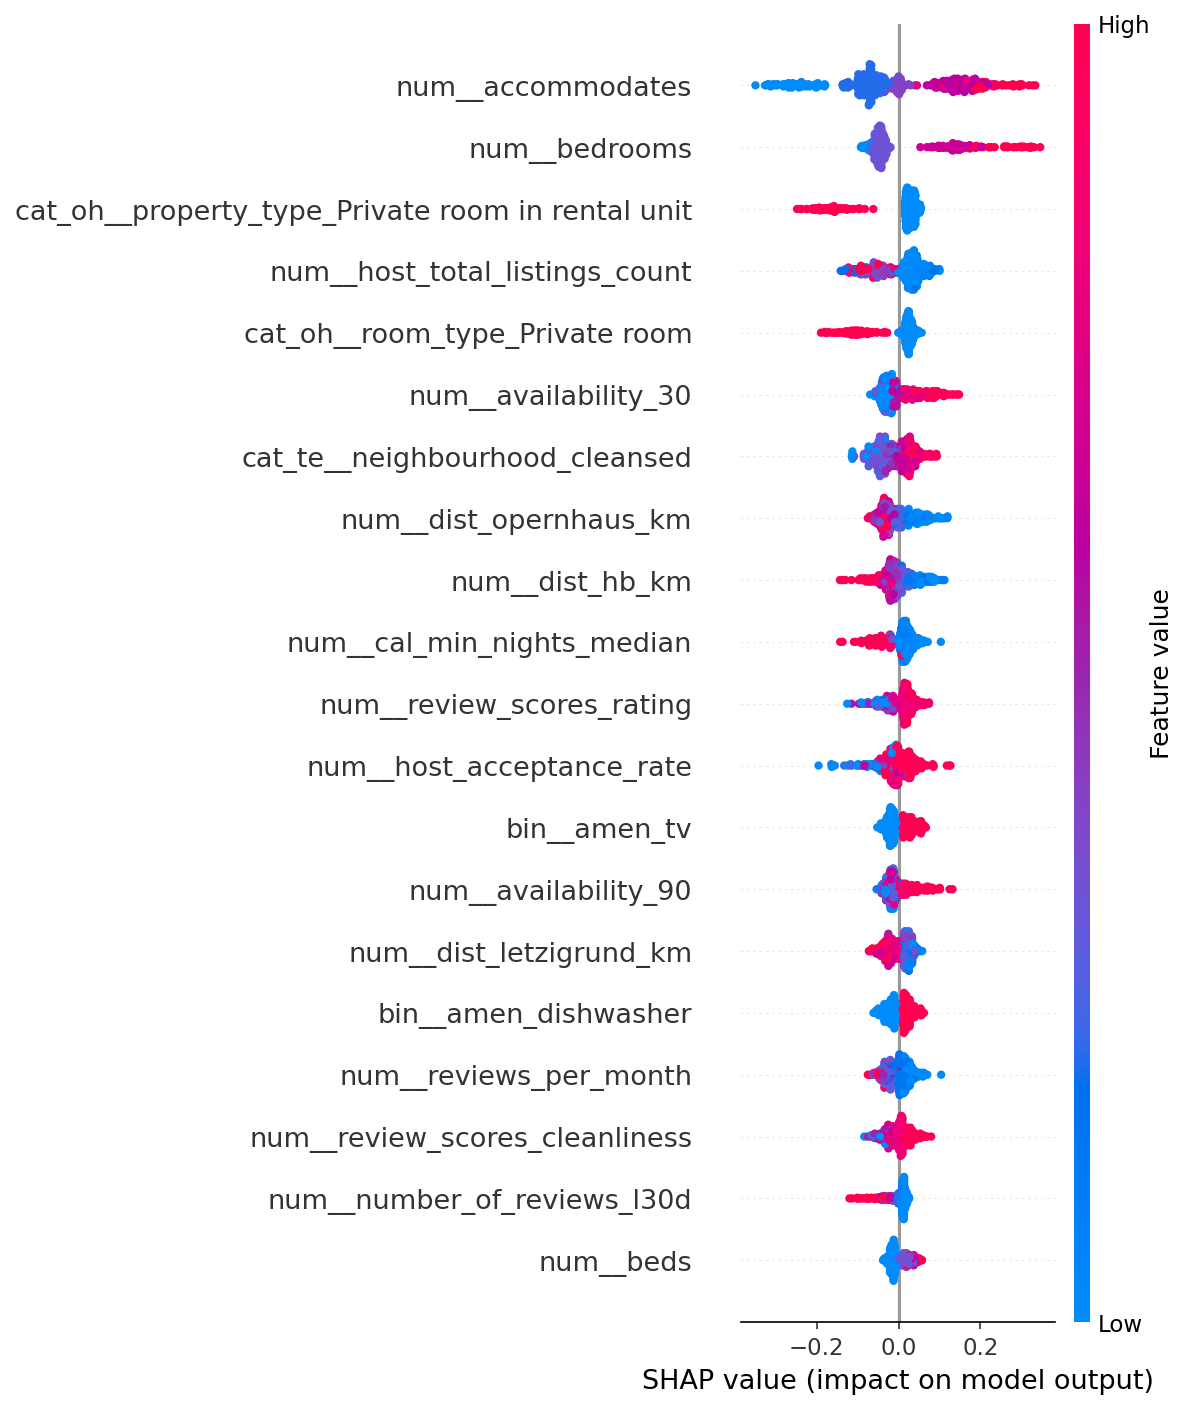
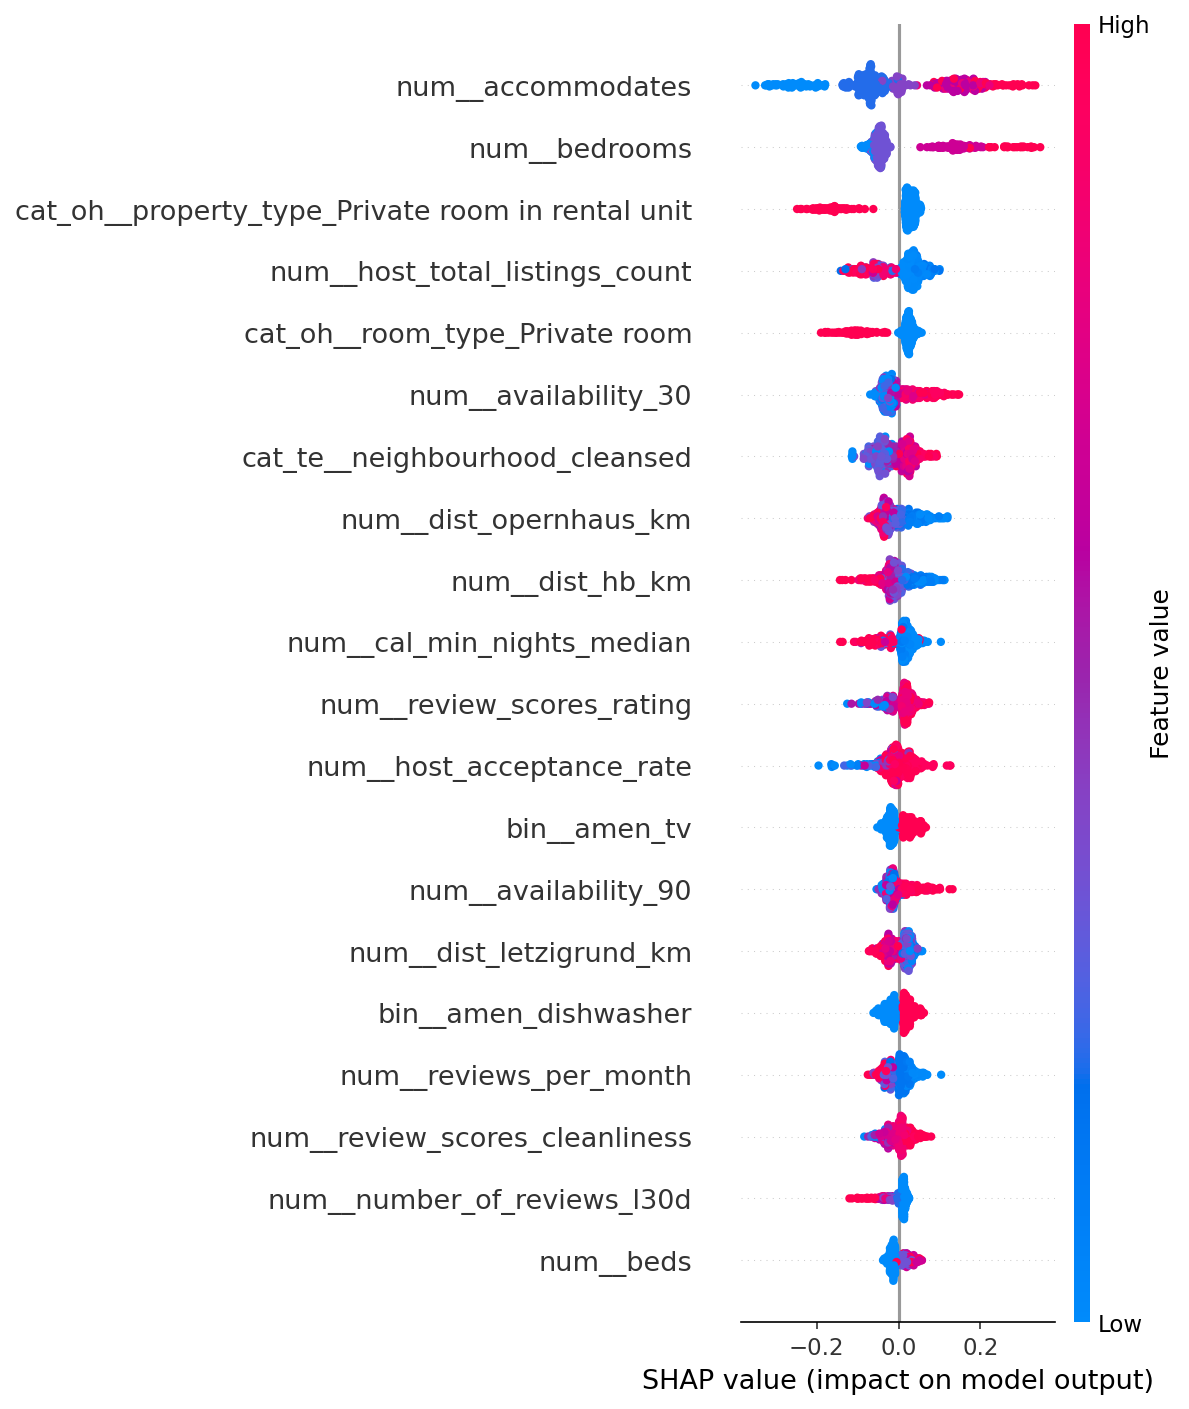
docs: review TF-IDF features overfit and were reverted
Pulled the ~110k Zurich guest reviews from reviews.csv.gz and added
per-listing TF-IDF (top-30 tokens, bilingual stop-list) plus
review_n_reviews and review_mean_len as features.

Result: CV-R² essentially flat (0.668 -> 0.666) but held-out R²
dropped from 0.587 to 0.563 (-0.024), MAE rose 36.32 -> 37.03 CHF.

SHAP diagnosis: top review tokens were all generic positives
(tok_location, tok_good, tok_great, tok_perfect, tok_recommend) that
appear on most well-rated listings and don't differentiate price.
review_n_reviews at SHAP #125 with mean |SHAP| 0 -- perfectly
redundant with the existing number_of_reviews. Net 32 sparse features
caused mild overfit on the 2052 train rows.

Reverted the two cells and the gitignore whitelist; removed
reviews.csv.gz from disk. Pipeline back to the post-calendar
baseline: MAE 36.32, RMSE 62.81, R² 0.587.

README "Experiments that didn't pay off" section now also covers
this attempt, with the lesson: top-N raw TF-IDF tokens add noise to
a tree model on small datasets; if text really matters, use topic
modelling or embeddings instead.

diff --git a/README.md b/README.md
@@ -122,8 +122,9 @@ For transparency, a few feature ideas we tried but reverted because they did not
 - **OSM transit stops + supermarkets in 500 m radius.** `dist_nearest_transit_km` and `n_supermarkets_500m` fetched from OpenStreetMap via the Overpass API. Zurich's transit network is so dense that almost every listing sits within ~150 m of a stop (median 112 m, max 711 m), so the distance has no discriminative power. Supermarket density correlated with `dist_hb_km` (city centre), so the model already had that signal. Both features landed at SHAP rank #26 / #30 and CV-R² dropped slightly (0.635 → 0.626).
 - **Distance to Zürichsee shore + Limmat river.** Same OSM source. These features *do* carry signal (SHAP rank #12 / #13), but SHAP simply redistributed importance from the existing `dist_opernhaus_km` and `dist_hb_km` features — held-out R² changed by −0.008 (within noise). Lake/river proximity is already implicitly captured by the central-Zurich venue distances.
 - **Outlier-stratified HGB (two-expert / mixture-of-experts).** Built a custom `StratifiedPriceRegressor` that trains a `HistGradientBoostingClassifier` to split listings at 250 CHF/night (~15% luxury bucket), then routes each prediction to one of two HGB regressors trained on its bucket. The stratified pipeline lost by a wide margin: CV-R² **0.558** vs. the single-HGB baseline's **0.641** (−0.083). Two reasons: the router classifier mis-routes ~10% of listings (each error costs a lot in MAE), and the luxury bucket's 299 training rows is below the sample-size regime where HGB outperforms simpler models. The single HGB sees the full distribution and learns the price-by-feature relationship without any routing risk.
+- **Guest-review TF-IDF (top-30 tokens) from `reviews.csv.gz`.** Downloaded the ~110k Zurich guest reviews and computed 30 TF-IDF token features per listing (bilingual DE/EN stop-list, `min_df=20`, `max_df=0.85`) plus `review_n_reviews` and `review_mean_len`. CV-R² was essentially unchanged (0.668 → 0.666) but held-out R² **dropped** from 0.587 to 0.563 (−0.024) and MAE rose from 36.32 to 37.03 CHF. SHAP showed why: the highest-ranked review tokens were generic positives — `tok_location` (#29), `tok_good` (#36), `tok_great`, `tok_perfect`, `tok_recommend` — which appear on most well-rated listings and don't differentiate price tiers. `review_n_reviews` (#125, SHAP 0) was perfectly redundant with the existing `number_of_reviews`. Net effect: 32 noisy sparse features with high feature-to-sample ratio (2052 train rows) caused mild overfit. A more sophisticated text approach (NMF topic modelling, embeddings, sentiment scores) might extract real signal — top-N raw tokens did not.
 
-Conclusion: when several distance features overlap geographically, adding more of them does not stack; the model just spreads the same signal across more columns. External data only helps when it captures something genuinely orthogonal to what is already in the feature set. Stratification only helps when the buckets follow genuinely different price-driver patterns *and* there's enough data in the minority bucket — neither held for this dataset.
+Conclusion: when several distance features overlap geographically, adding more of them does not stack; the model just spreads the same signal across more columns. External data only helps when it captures something genuinely orthogonal to what is already in the feature set. Stratification only helps when the buckets follow genuinely different price-driver patterns *and* there's enough data in the minority bucket. Sparse text features (top-N tokens) need to be either very few (high-signal-only) or properly compressed (topics/embeddings); a wide TF-IDF over generic positives mostly adds noise to a tree model — none of these held for this dataset.
 
 ## Output
 - Trained model:  models/rent_pipeline.pkl